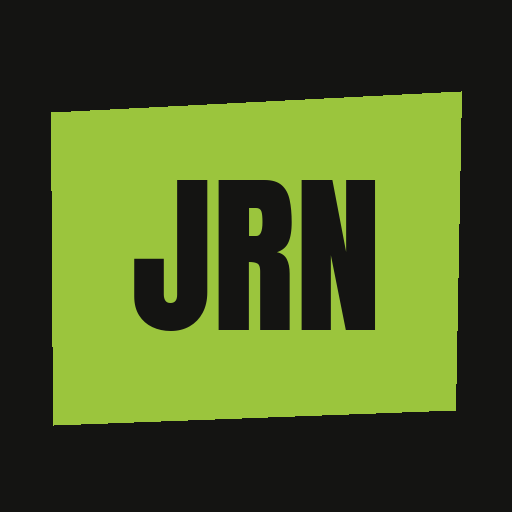
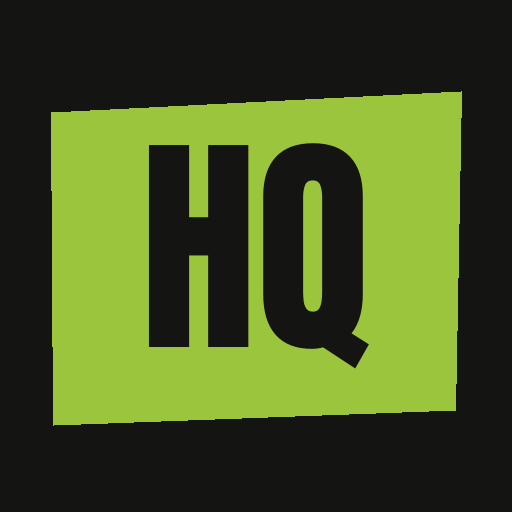
Add files via upload

Changed region(s): [[0.25, 0.2812, 0.75, 0.7188]]

diff --git a/index.html b/index.html
@@ -8,7 +8,7 @@
 <meta name="theme-color" content="#141412">
 <meta name="apple-mobile-web-app-capable" content="yes">
 <meta name="apple-mobile-web-app-status-bar-style" content="black-translucent">
-<meta name="apple-mobile-web-app-title" content="JRN HQ">
+<meta name="apple-mobile-web-app-title" content="HQ">
 <link rel="apple-touch-icon" href="icon-192.png">
 <link rel="preconnect" href="https://fonts.googleapis.com">
 <link rel="preconnect" href="https://fonts.gstatic.com" crossorigin>

diff --git a/sw.js b/sw.js
@@ -1,5 +1,5 @@
 /* JRN HQ — offline-first service worker */
-const CACHE = 'jrn-hq-v1';
+const CACHE = 'jrn-hq-v3';
 const CORE = ['./', './index.html', './manifest.json', './icon-192.png', './icon-512.png'];
 
 self.addEventListener('install', e => {
